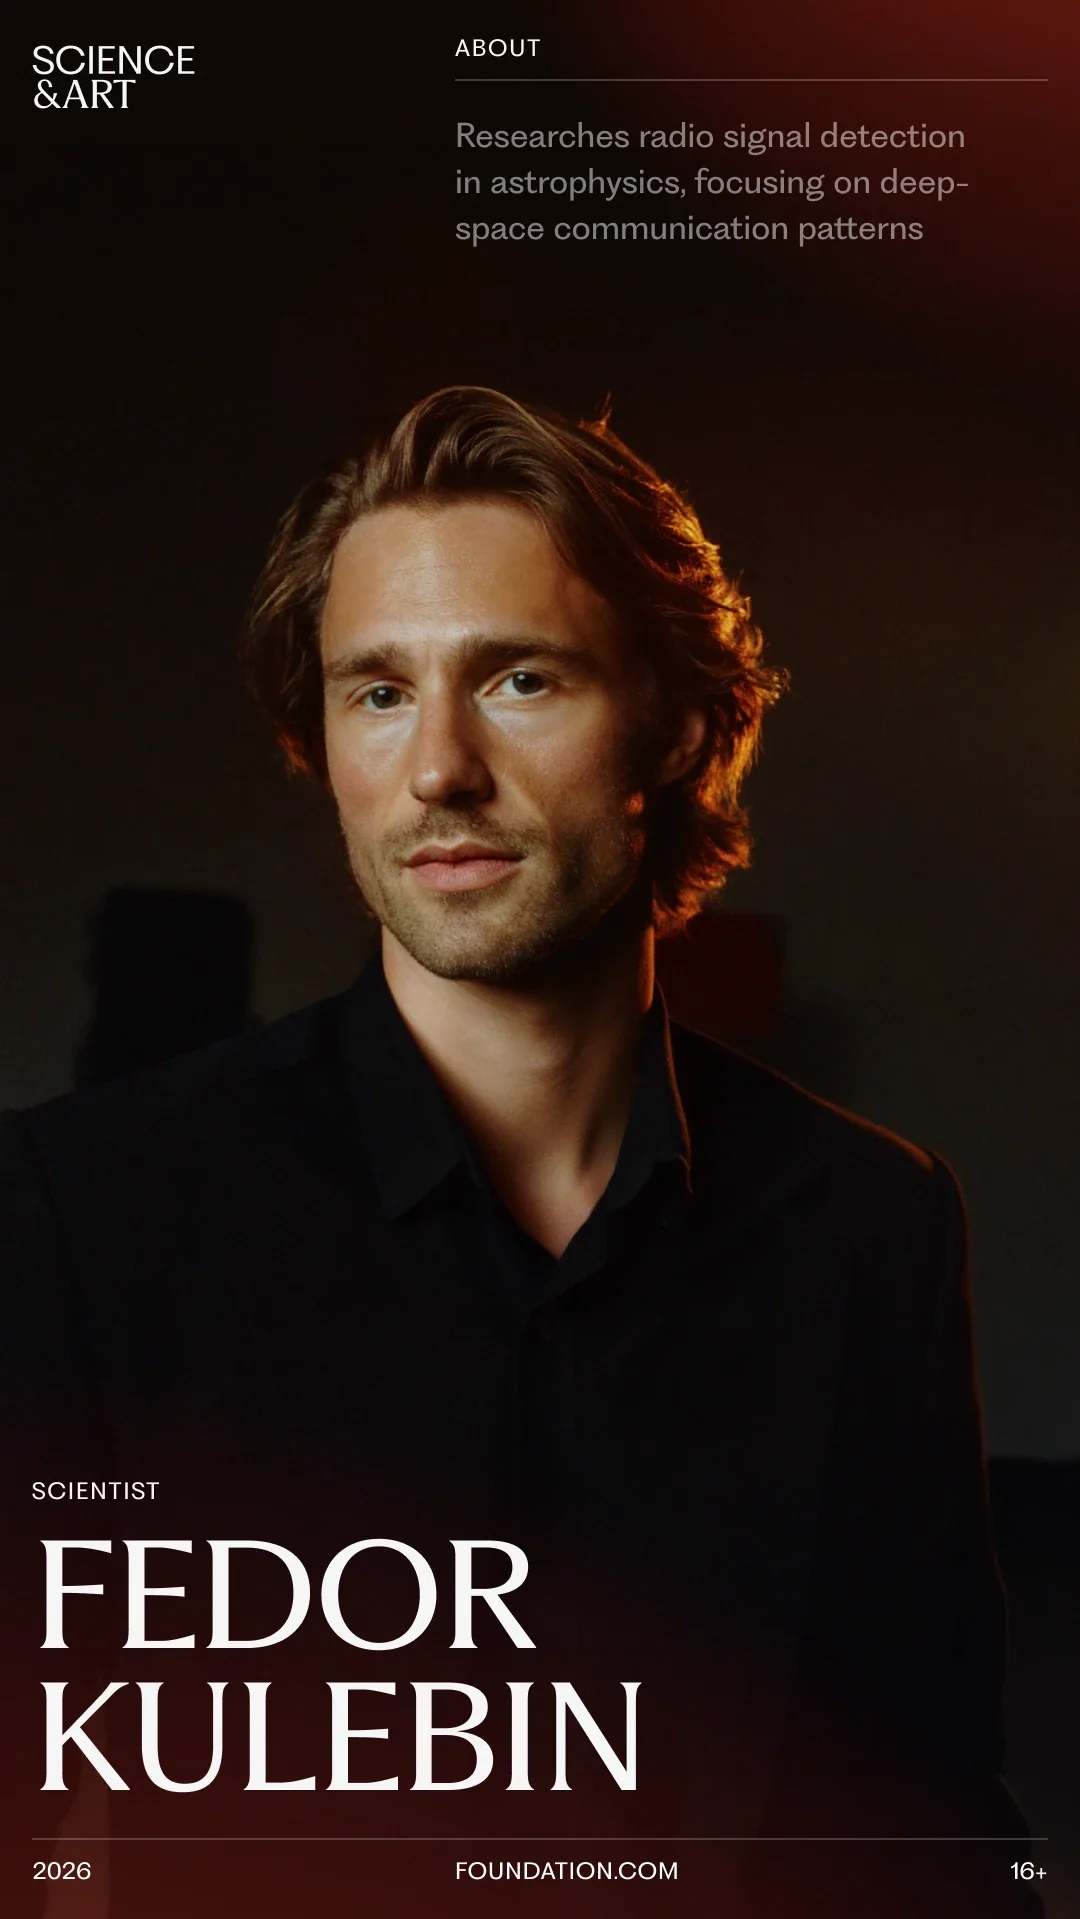
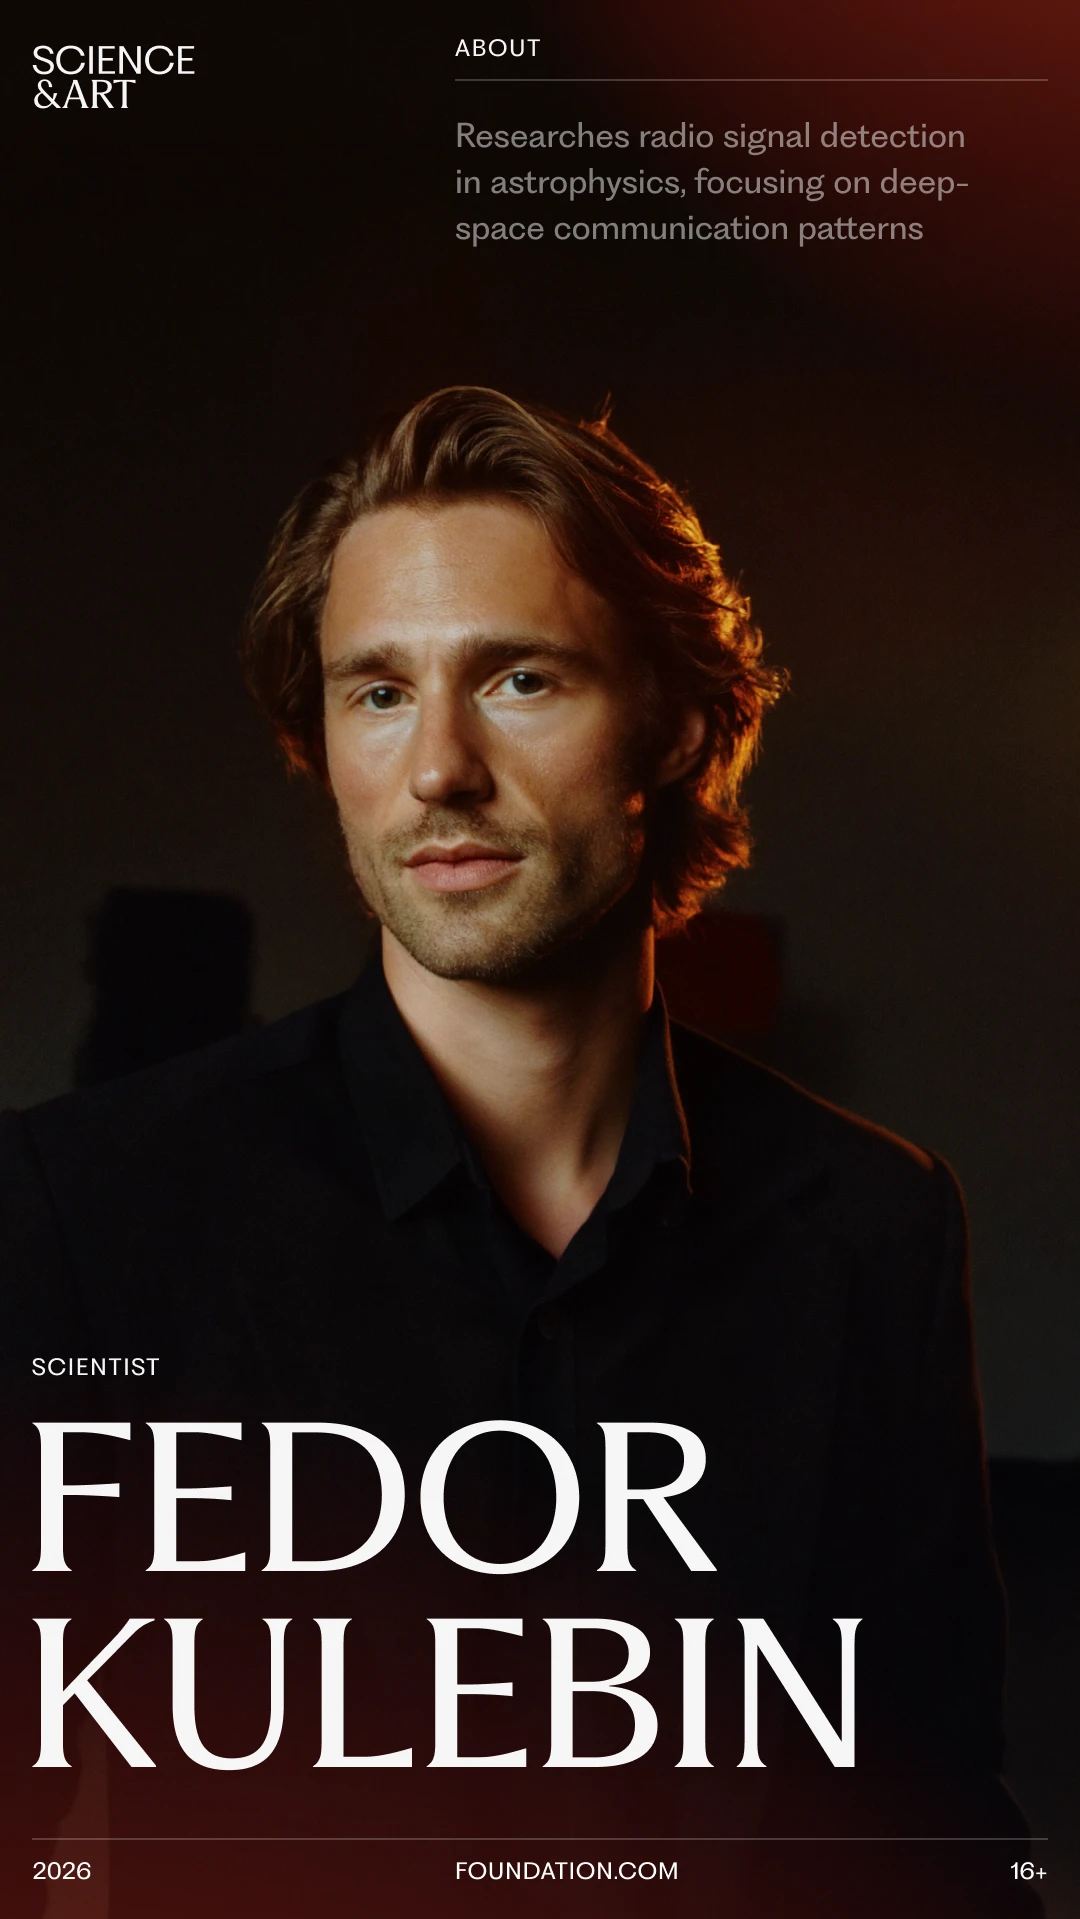
Citylight: client's updated Fedor Kulebin poster (larger text)
Claude-Session: https://claude.ai/code/session_01GeHfkhDBmRktRQFVq6ywLt

Changed region(s): [[0.0306, 0.7071, 0.7944, 0.9531]]

diff --git a/index.html b/index.html
@@ -3791,7 +3791,7 @@ button.project__media-link {
           <div class="citylight__screen">
             <div class="citylight__strip">
               <img loading="lazy" src="images/foundation-citylight-poster-1.webp" alt="" />
-              <img loading="lazy" src="images/foundation-citylight-poster-2.webp" alt="" />
+              <img loading="lazy" src="images/foundation-citylight-poster-2.webp?v=2" alt="" />
               <img loading="lazy" src="images/foundation-citylight-poster-1.webp" alt="" />
             </div>
           </div>
